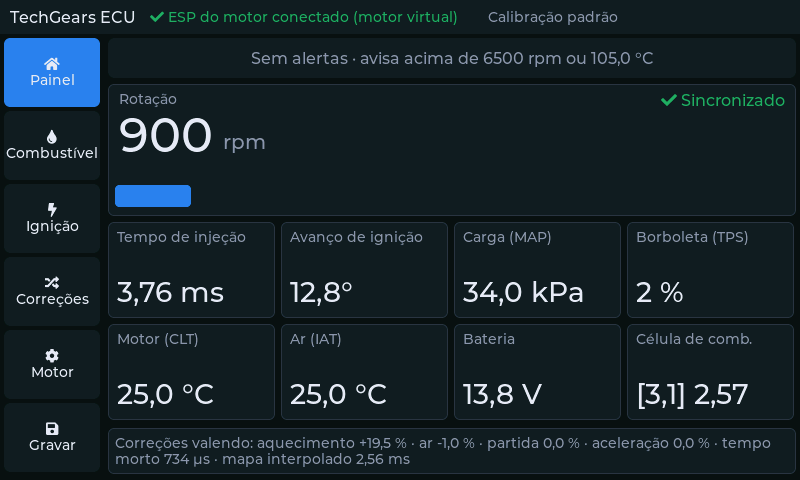
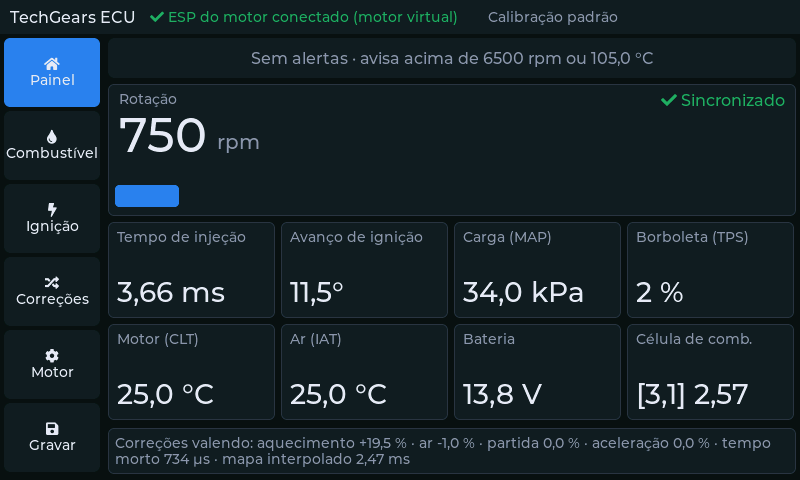
fix: Zerar o giro sem sincronismo e usar a lenta do Fit

diff --git a/src/firmware/hmi/ui/src/ui_painel.c b/src/firmware/hmi/ui/src/ui_painel.c
@@ -84,13 +84,16 @@ void hmi_painel_refresh(void)
     const bool have_limits = l->params[ECU_PAR_ALERT_RPM].ok && l->params[ECU_PAR_ALERT_CLT_X10].ok;
     const int32_t lim_rpm = l->params[ECU_PAR_ALERT_RPM].p.value;
     const int32_t lim_clt = l->params[ECU_PAR_ALERT_CLT_X10].p.value;
-    g_ui.alert_rpm = alive && have_limits && t->rpm > lim_rpm;
+    /* Sem sincronismo o pacote pode trazer o ultimo giro. Nao usar esse numero. */
+    const bool rpm_trusted = (t->flags & (ECU_TLM_SYNC | ECU_TLM_CRANKING)) != 0;
+    const uint16_t rpm_show = rpm_trusted ? t->rpm : 0;
+    g_ui.alert_rpm = alive && rpm_trusted && have_limits && t->rpm > lim_rpm;
     g_ui.alert_clt = alive && have_limits && t->clt_x10 > lim_clt;
 
     if (g_ui.alert_rpm || g_ui.alert_clt) {
         char r[80] = "", k[80] = "";
         if (g_ui.alert_rpm) {
-            snprintf(r, sizeof(r), "Rotação acima do limite (%u > %ld rpm)", t->rpm, (long)lim_rpm);
+            snprintf(r, sizeof(r), "Rotação acima do limite (%u > %ld rpm)", rpm_show, (long)lim_rpm);
         }
         if (g_ui.alert_clt) {
             hmi_fmt_with_unit(a, sizeof(a), ECU_UNIT_DEGC_X10, t->clt_x10, false);
@@ -123,10 +126,10 @@ void hmi_painel_refresh(void)
         return;
     }
 
-    lv_label_set_text_fmt(g_ui.p_rpm, "%u", t->rpm);
+    lv_label_set_text_fmt(g_ui.p_rpm, "%u", rpm_show);
     lv_obj_align_to(rpm_unit, g_ui.p_rpm, LV_ALIGN_OUT_RIGHT_BOTTOM, 10, -8);
     lv_obj_set_style_text_color(g_ui.p_rpm, g_ui.alert_rpm ? HMI_C_DANGER : HMI_C_TEXT, 0);
-    lv_bar_set_value(g_ui.p_rpm_bar, t->rpm > RPM_MAX ? RPM_MAX : t->rpm, LV_ANIM_OFF);
+    lv_bar_set_value(g_ui.p_rpm_bar, rpm_show > RPM_MAX ? RPM_MAX : rpm_show, LV_ANIM_OFF);
     lv_obj_set_style_bg_color(g_ui.p_rpm_bar, g_ui.alert_rpm ? HMI_C_DANGER : HMI_C_ACCENT, LV_PART_INDICATOR);
     if (t->flags & ECU_TLM_CRANKING) {
         lv_label_set_text(g_ui.p_sync, LV_SYMBOL_REFRESH " Partida");

diff --git a/src/software/hmi-sim/scenarios.c b/src/software/hmi-sim/scenarios.c
@@ -8,6 +8,7 @@
 #include <stdio.h>
 #include <string.h>
 
+#include "ecu/ecu_calib.h"
 #include "hmi/ui_internal.h"
 #include "sim.h"
 
@@ -75,11 +76,11 @@ static motor_virtual_t *motor(void)
 static void sc_painel(void)
 {
     printf("\n== Painel e conexao (1.7.1.1 / 1.7.1.2)\n");
-    motor_virtual_set(motor(), 900, 340, 2, 250);
+    motor_virtual_set(motor(), ECU_FIT_IDLE_RPM, 340, 2, 250);
     sim_run_ms(2000);
     CHECK(g_sim.link.connected, "a tela achou o ESP do motor (PING/PONG)");
     CHECK(ecu_hmi_link_synced(&g_sim.link), "a tela copiou as 7 tabelas e a ficha do motor");
-    CHECK(has(g_ui.p_rpm, "900"), "painel mostra 900 rpm (motor virtual em marcha lenta)");
+    CHECK(strcmp(lv_label_get_text(g_ui.p_rpm), "750") == 0, "painel mostra 750 rpm (marcha lenta do Fit)");
     CHECK(has(g_ui.p_val[4], "25,0"), "painel mostra a temperatura do motor (25,0 °C)");
     CHECK(!g_ui.alert_rpm && !g_ui.alert_clt && has(g_ui.p_alert_lbl, "Sem alertas"), "abaixo dos limites, o alerta fica apagado");
     shot("01_painel_marcha_lenta");
@@ -87,6 +88,12 @@ static void sc_painel(void)
     motor_virtual_set(motor(), 3000, 600, 30, 850);
     sim_run_ms(300);
     CHECK(has(g_ui.p_rpm, "3000"), "um dado novo do motor muda o número na tela (3000 rpm)");
+
+    motor_virtual_set(motor(), 6800, 980, 90, 880);
+    motor()->in.sync = false;
+    sim_run_ms(300);
+    CHECK(strcmp(lv_label_get_text(g_ui.p_rpm), "0") == 0, "sem sincronismo o giro mostra 0, sem ficar no ultimo valor");
+    CHECK(!g_ui.alert_rpm, "giro sem sincronismo nao acende alerta de rotacao");
 }
 
 static void sc_alertas(void)

diff --git a/src/software/hmi-sim/motor_virtual.c b/src/software/hmi-sim/motor_virtual.c
@@ -1,5 +1,7 @@
 #include "motor_virtual.h"
 
+#include "ecu/ecu_calib.h"
+
 #include <stdio.h>
 #include <string.h>
 
@@ -93,20 +95,20 @@ static void auto_cycle(motor_virtual_t *m, uint32_t now)
         rpm = ramp(0, 280, t, 0, 600);
         map = 950;
         tps = 0;
-    } else if (t < 8000) { /* marcha lenta */
-        rpm = 900 + (int32_t)((t / 97) % 30);
+    } else if (t < 8000) { /* marcha lenta, firme: manual Honda do L15A */
+        rpm = ECU_FIT_IDLE_RPM;
         map = 340;
         tps = 2;
     } else if (t < 14000) { /* aceleracao forte */
-        rpm = ramp(900, 6000, t, 8000, 14000);
+        rpm = ramp(ECU_FIT_IDLE_RPM, 6000, t, 8000, 14000);
         map = ramp(450, 960, t, 8000, 9000);
         tps = t < 8300 ? ramp(2, 85, t, 8000, 8300) : 85;
-    } else if (t < 17000) { /* passa do limite de rotacao */
-        rpm = ramp(6000, 6900, t, 14000, 16000);
+    } else if (t < 17000) { /* chega no corte do L15A; nao passa dele */
+        rpm = ramp(6000, ECU_FIT_REV_CUT_RPM, t, 14000, 16000);
         map = 980;
         tps = 90;
     } else if (t < 22000) { /* tira o pe: desaceleracao */
-        rpm = ramp(6900, 2200, t, 17000, 22000);
+        rpm = ramp(ECU_FIT_REV_CUT_RPM, 2200, t, 17000, 22000);
         map = 240;
         tps = 0;
     } else { /* cruzeiro: 2500 rpm e 60 kPa */

diff --git a/src/firmware/hmi/s3/src/board.h b/src/firmware/hmi/s3/src/board.h
@@ -1,9 +1,10 @@
 /**
- * Camada da placa: tudo o que muda se a equipe comprar outra tela S3.
+ * Camada da placa: o que muda depois que a equipe comprar a tela S3.
  *
- * Valores da Sunton ESP32-8048S043C (800x480, GT911), tirados da documentacao
- * publica da placa. NAO VALIDADO EM HARDWARE: confira cada pino no esquematico
- * da placa comprada antes de gravar.
+ * O desenho da interface fica em 800x480, tamanho padrao das telas de 4,3"
+ * com ESP32-S3. Esta Sunton ESP32-8048S043C NAO e a placa comprada: e so um
+ * exemplo, com pinos tirados da documentacao publica e sem teste em hardware.
+ * Na placa real mudam os pinos e o driver. O desenho das telas fica igual.
  */
 #pragma once
 

diff --git a/src/firmware/common/include/ecu/ecu_calib.h b/src/firmware/common/include/ecu/ecu_calib.h
@@ -31,6 +31,13 @@ extern "C" {
 #define ECU_MAP_COLS 16u
 #define ECU_CURVE_POINTS 8u
 
+/* Fit 1.5 L15A (EX 2006). A lenta vem do manual Honda. O corte vem de notas
+ * Haltech para esse motor: forte, mas nao e o manual. A faixa vermelha do
+ * painel e o fundo da escala esperam uma foto do conta-giros; nao usar o
+ * corte como vermelho nem como fim da barra. */
+#define ECU_FIT_IDLE_RPM 750
+#define ECU_FIT_REV_CUT_RPM 6200
+
 typedef enum {
     ECU_TBL_FUEL = 0,
     ECU_TBL_IGN = 1,

diff --git a/docs/refs/hmi-s3-o-que-foi-implementado.md b/docs/refs/hmi-s3-o-que-foi-implementado.md
@@ -102,7 +102,7 @@ Seis telas em 800×480, as mesmas no simulador e na placa, com acentos via uma f
 
 As capturas abaixo saem dos cenários de teste do simulador.
 
-![Painel em marcha lenta: 900 rpm, tempo de injeção, avanço e temperaturas](../docs/img/hmi/01_painel_marcha_lenta.png)
+![Painel em marcha lenta: 750 rpm, tempo de injeção, avanço e temperaturas](../docs/img/hmi/01_painel_marcha_lenta.png)
 
 ![Célula editada e confirmada pelo ESP do motor; o PW subiu de 6466 para 6664 µs](../docs/img/hmi/06_combustivel_confirmado.png)
 

diff --git a/docs/docs/hmi-s3.md b/docs/docs/hmi-s3.md
@@ -43,7 +43,7 @@ Fonte: elaborado pelos autores.
 
 ![Painel em marcha lenta no simulador](./img/hmi/01_painel_marcha_lenta.png)
 
-<small><strong>Figura 1 - Painel com o motor virtual em marcha lenta (900 rpm, 25 °C)</strong></small>
+<small><strong>Figura 1 - Painel com o motor virtual em marcha lenta (750 rpm, 25 °C)</strong></small>
 
 Fonte: captura do simulador (`hmi_sim --headless`), elaborada pelos autores.
 
